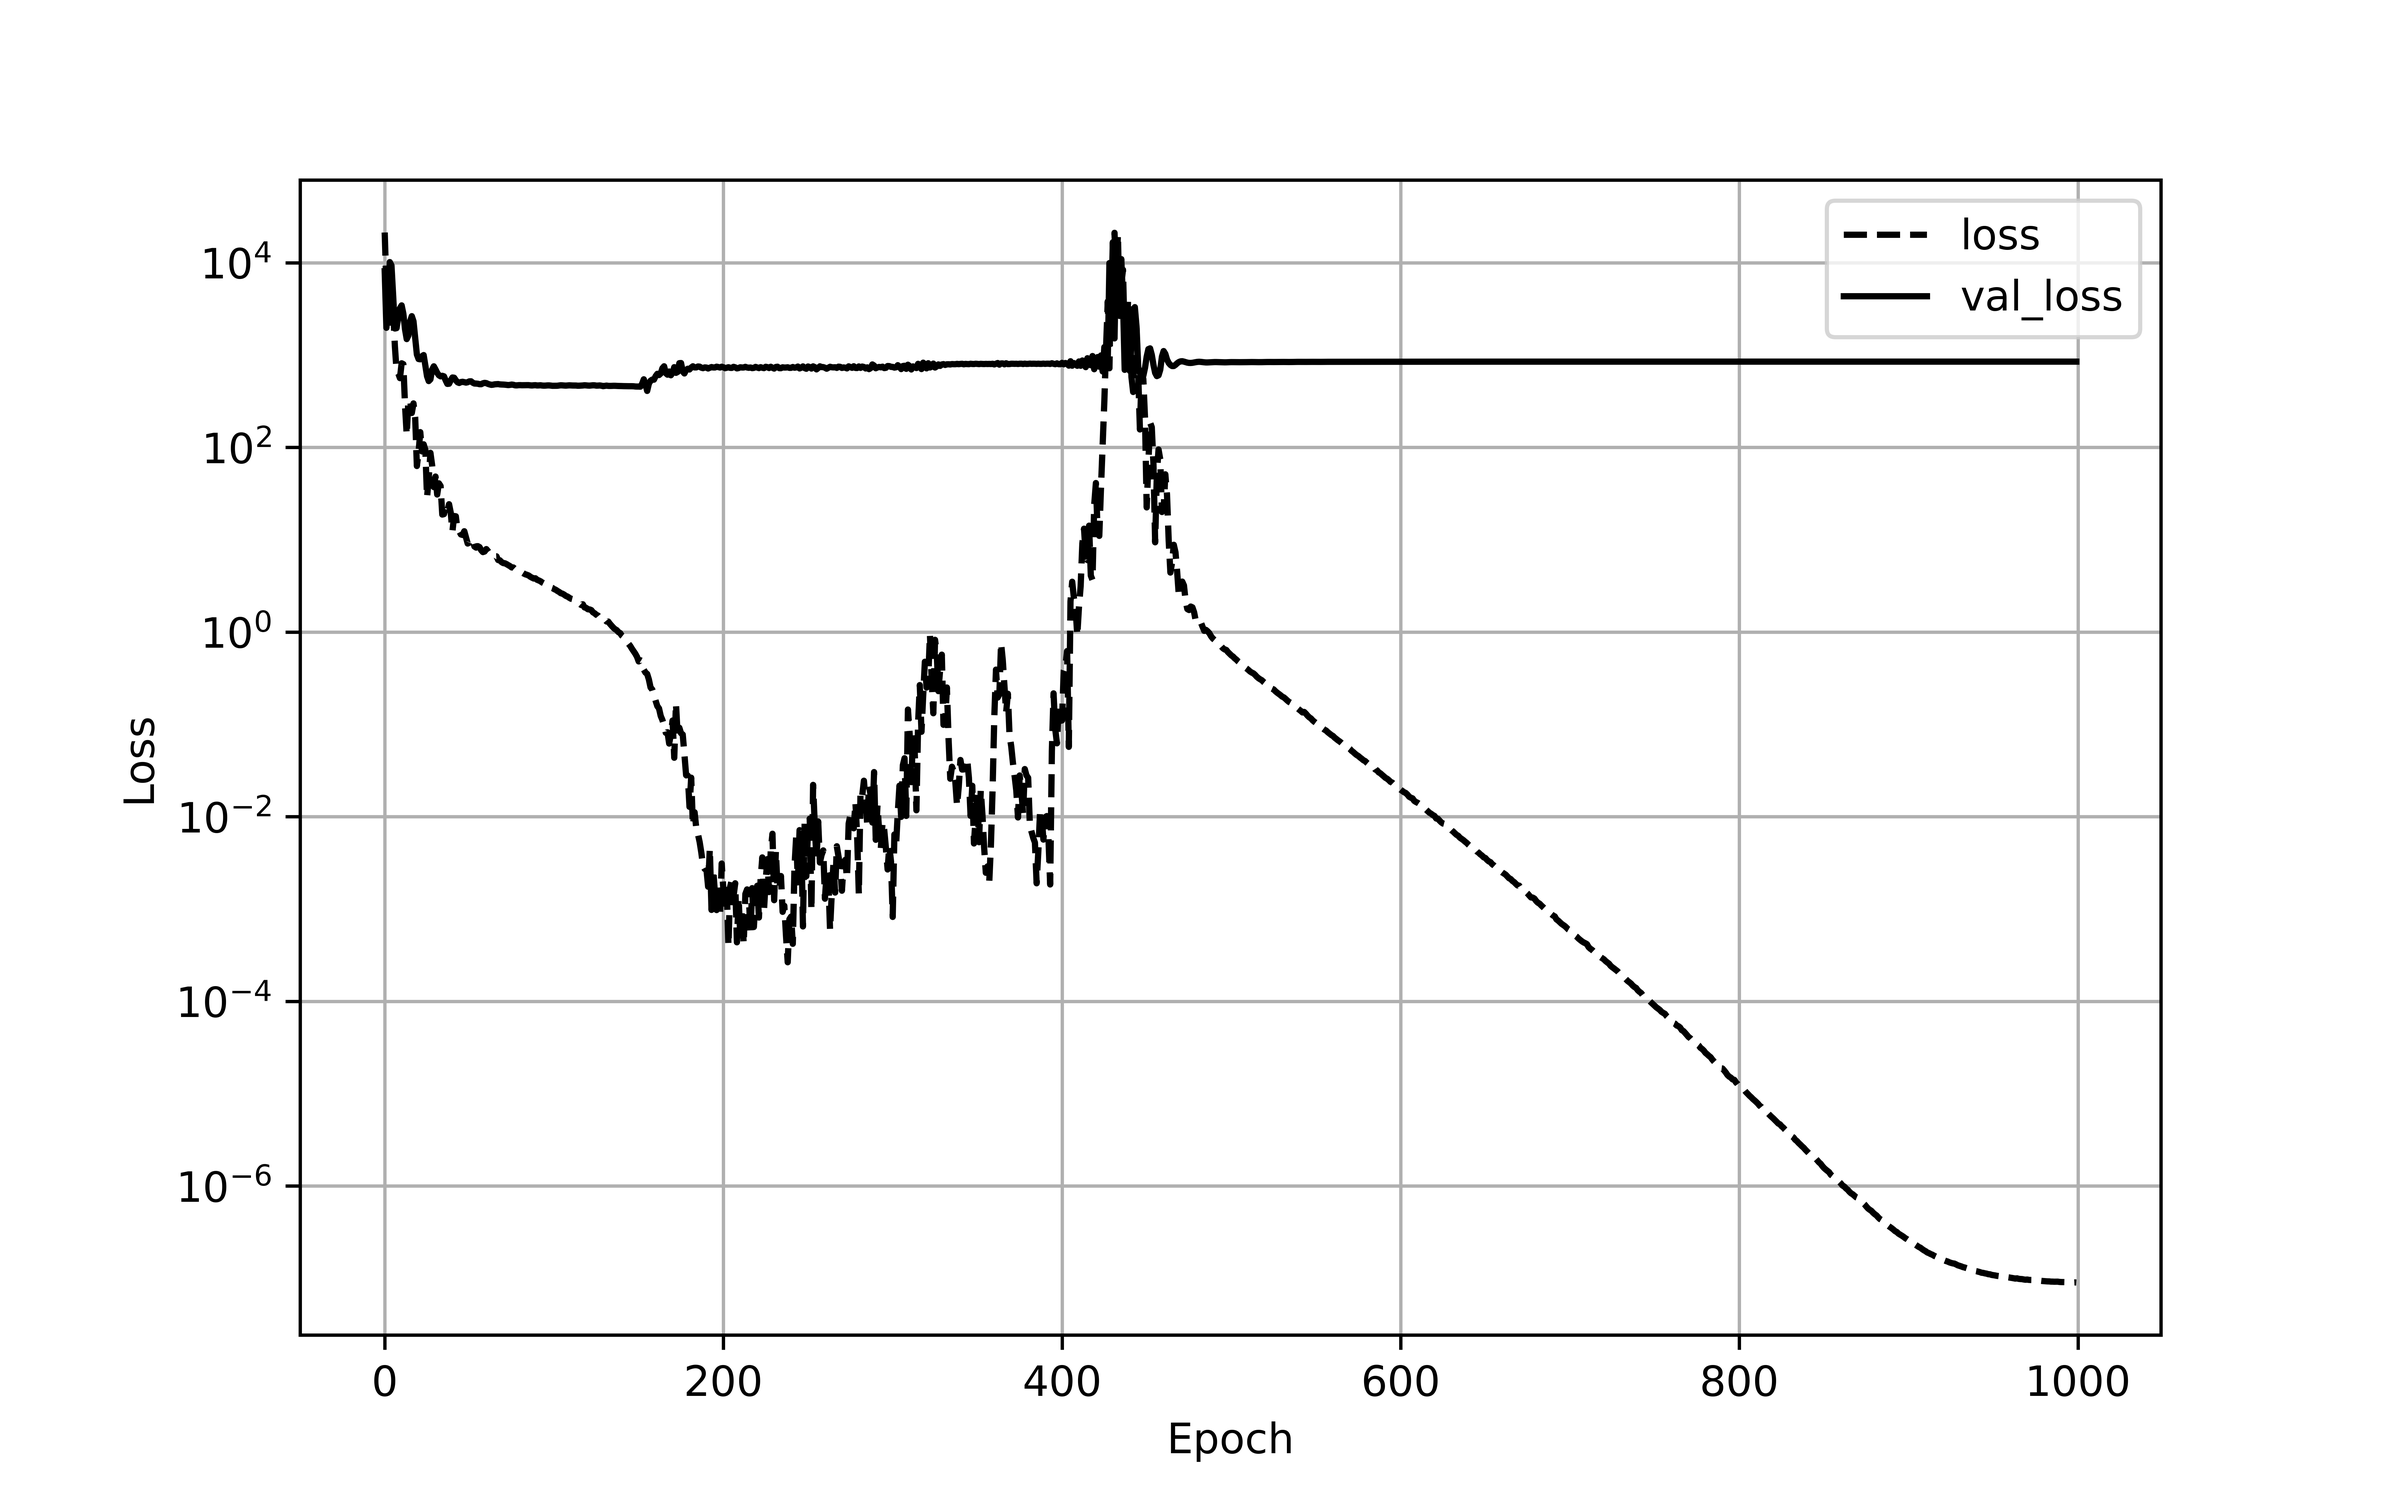
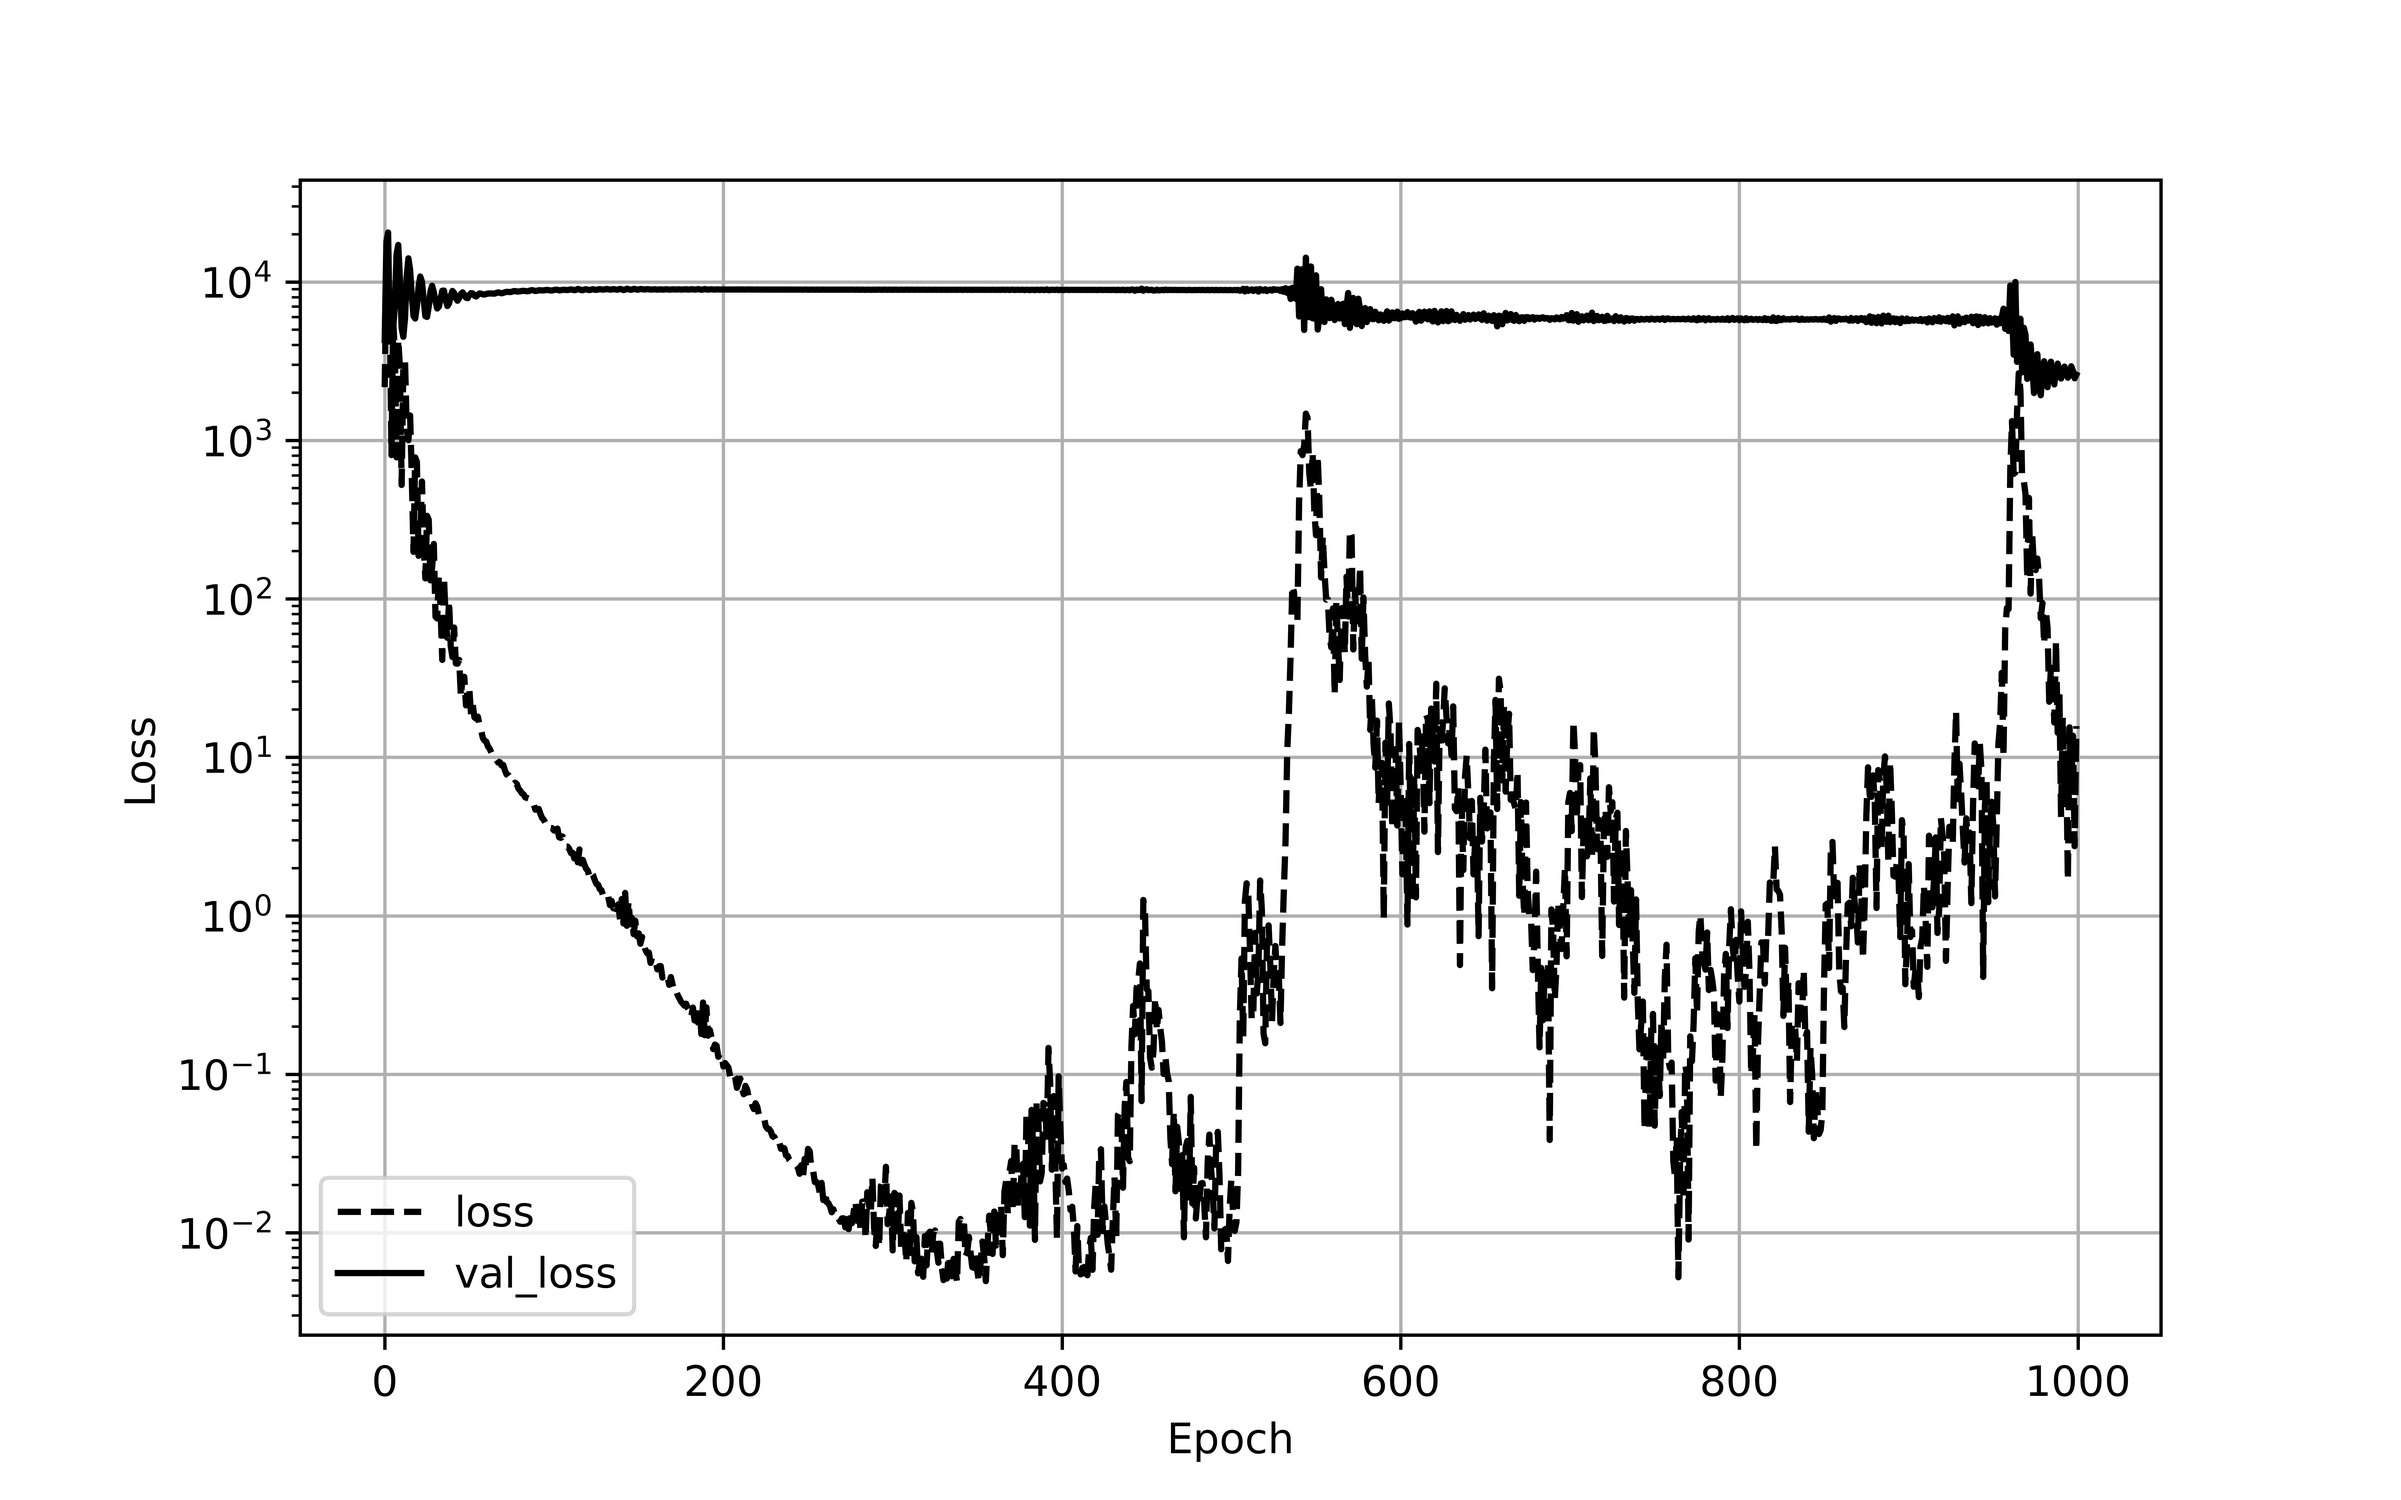
Added zenith information

diff --git a/network.py b/network.py
@@ -14,32 +14,42 @@ else:
 
 Xcx, dEdX, zenith = conex_read.readRoot(file)
 
-# Determine the maximum length among the zenith arrays
-# max_len = max(len(arr) for arr in zenith)
-
-# Create an array to store the zenith data with consistent shape
-# zenith_data = np.zeros((len(zenith), max_len), dtype=np.float32)
-
-# Copy and reshape the zenith data into the zenith_data array
-# for i, arr in enumerate(zenith):
-#     zenith_data[i, :len(arr)] = arr
-print(Xcx.shape)
 maxLength = max(len(arr) for arr in Xcx)
-
 for i, array in enumerate(Xcx):
     while len(Xcx[i]) < maxLength:
         Xcx[i] = np.append(Xcx[i], 0)
         dEdX[i] = np.append(dEdX[i], 0)
+
+
+zenith = list([list([x]) for x in zenith])
+newZenithArray = []
+for i in range(len(Xcx)):
+    newZenith = []
+    for j in range(len(Xcx[i])):
+        newZenith.append(float(zenith[i][0]))    
+    newZenithArray.append(newZenith)
+
+zenith = newZenithArray
+for i in range(len(zenith)):
+    zenith[i] = np.array(zenith[i]) 
+
 
 for i, array in enumerate(dEdX):
     maxHeight = max(dEdX[i])
     for j, value in enumerate(dEdX[i]):
         dEdX[i][j] /= maxHeight
 
+
 Xcx = np.vstack(Xcx)
 dEdX = np.vstack(dEdX)
+zenith = np.vstack(zenith)
+print(Xcx.shape)
+print(dEdX.shape)
+print(zenith.shape)
+zenith = np.vstack(zenith)
 
-X = np.stack([Xcx, dEdX], axis = -1)
+
+X = np.stack([Xcx, dEdX, zenith], axis = -1)
 
 for i in range(100):
     plt.scatter(Xcx[i], dEdX[i], s=0.5)
@@ -57,11 +67,9 @@ model = cn.create_model(X.shape)
 model.compile(optimizer="adam", loss="mean_squared_error")
 print(model.summary())
 
-# Ensure that mass_train is a NumPy array, not a scalar
+
 mass = np.full(100, 20, dtype=np.float32)
 
-# print(X.shape)
-# print(mass.shape)
 X_train, X_test = np.split(X, [50])
 mass_train, mass_test = np.split(mass, [50])
 
